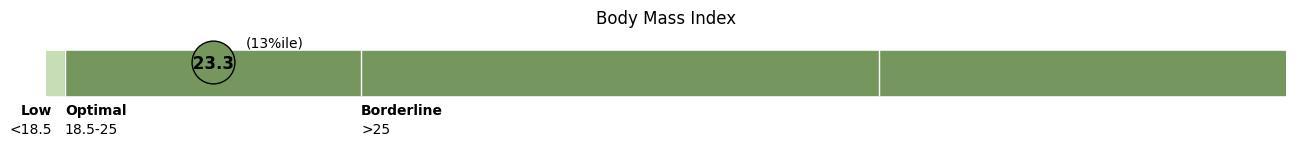
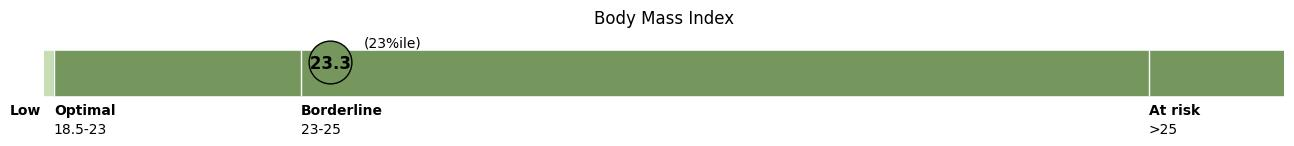
Fix South Asian BMI Range

diff --git a/Home.py b/Home.py
@@ -632,27 +632,59 @@ def show_analysis(df):
                 else:
                     plt.annotate(f'({user_percentile:.0f}%ile)', xy=(user_percentile, 0.9), xytext=(user_percentile + 5, 0.98), 
                              horizontalalignment='center')
-
-                if high_number < 1000:
-                    plt.annotate(f'{AHA_RANGES[columnName][4]}', xy=(high_percentile, 0.675), xytext=(high_percentile, 0.45),
-                                  horizontalalignment='left', weight='bold')
-                    plt.annotate(f'>{high_number}', xy=(high_percentile, 0.675), xytext=(high_percentile, 0.3),
-                                  horizontalalignment='left')
-                if low_number > 0:
+                    
+                if columnName == 'Body Mass Index':
                     plt.annotate(f'{AHA_RANGES[columnName][0]}', xy=(low_percentile, 0.675), xytext=(low_percentile - 1, 0.45),
-                                  horizontalalignment='right', weight='bold')
-                    plt.annotate(f'<{low_number}', xy=(low_percentile - 1, 0.657), xytext=(low_percentile - 1, 0.3),
-                                  horizontalalignment='right')
-                if high_number == 1000:
-                    plt.annotate(f'{AHA_RANGES[columnName][2]}', xy=(low_percentile, 0.675), xytext=(low_percentile, 0.45),
-                                    horizontalalignment='left', weight='bold')
-                    plt.annotate(f'>{low_number}', xy=(low_percentile, 0.675), xytext=(low_percentile, 0.3),
-                                    horizontalalignment='left')
+                                horizontalalignment='right', weight='bold')
+                    plt.annotate(f'<18.5', xy=(low_percentile - 1, 0.657), xytext=(low_percentile - 1, 0.3),
+                            horizontalalignment='right')
+                    if ethnicity == 'South Asian':
+                        plt.annotate(f'{AHA_RANGES[columnName][2]}', xy=(low_percentile, 0.675), xytext=(low_percentile, 0.45),
+                                horizontalalignment='left', weight='bold')
+                        plt.annotate(f'18.5-23', xy=(low_percentile, 0.657), xytext=(low_percentile, 0.3),
+                                horizontalalignment='left')
+                        plt.annotate(f'{AHA_RANGES[columnName][4]}', xy=(low_percentile, 0.675), xytext=(high_percentile, 0.45),
+                                horizontalalignment='left', weight='bold')
+                        plt.annotate(f'23-25', xy=(high_percentile - 1, 0.657), xytext=(high_percentile, 0.3),
+                                horizontalalignment='left')
+                        plt.annotate(f'{AHA_RANGES[columnName][6]}', xy=(low_percentile, 0.675), xytext=(extra_high_percentile, 0.45),
+                                horizontalalignment='left', weight='bold')
+                        plt.annotate('>25', xy=(extra_high_percentile - 1, 0.657), xytext=(extra_high_percentile, 0.3),
+                                horizontalalignment='left')
+                    else:
+                        plt.annotate(f'{AHA_RANGES[columnName][2]}', xy=(low_percentile, 0.675), xytext=(low_percentile, 0.45),
+                                horizontalalignment='left', weight='bold')
+                        plt.annotate(f'18.5-25', xy=(low_percentile, 0.657), xytext=(low_percentile, 0.3),
+                                horizontalalignment='left')
+                        plt.annotate(f'{AHA_RANGES[columnName][4]}', xy=(low_percentile, 0.675), xytext=(high_percentile, 0.45),
+                                horizontalalignment='left', weight='bold')
+                        plt.annotate(f'25-30', xy=(high_percentile - 1, 0.657), xytext=(high_percentile, 0.3),
+                                horizontalalignment='left')
+                        plt.annotate(f'{AHA_RANGES[columnName][6]}', xy=(low_percentile, 0.675), xytext=(extra_high_percentile, 0.45),
+                                horizontalalignment='left', weight='bold')
+                        plt.annotate('>30', xy=(extra_high_percentile - 1, 0.657), xytext=(extra_high_percentile, 0.3),
+                                horizontalalignment='left')
                 else:
-                    plt.annotate(f'{AHA_RANGES[columnName][2]}', xy=(low_percentile, 0.675), xytext=(low_percentile, 0.45),
+                    if high_number < 1000:
+                        plt.annotate(f'{AHA_RANGES[columnName][4]}', xy=(high_percentile, 0.675), xytext=(high_percentile, 0.45),
                                     horizontalalignment='left', weight='bold')
-                    plt.annotate(f'{low_number}-{high_number}', xy=(low_percentile, 0.675), xytext=(low_percentile, 0.3),
+                        plt.annotate(f'>{high_number}', xy=(high_percentile, 0.675), xytext=(high_percentile, 0.3),
                                     horizontalalignment='left')
+                    if low_number > 0:
+                        plt.annotate(f'{AHA_RANGES[columnName][0]}', xy=(low_percentile, 0.675), xytext=(low_percentile - 1, 0.45),
+                                    horizontalalignment='right', weight='bold')
+                        plt.annotate(f'<{low_number}', xy=(low_percentile - 1, 0.657), xytext=(low_percentile - 1, 0.3),
+                                    horizontalalignment='right')
+                    if high_number == 1000:
+                        plt.annotate(f'{AHA_RANGES[columnName][2]}', xy=(low_percentile, 0.675), xytext=(low_percentile, 0.45),
+                                        horizontalalignment='left', weight='bold')
+                        plt.annotate(f'>{low_number}', xy=(low_percentile, 0.675), xytext=(low_percentile, 0.3),
+                                        horizontalalignment='left')
+                    else:
+                        plt.annotate(f'{AHA_RANGES[columnName][2]}', xy=(low_percentile, 0.675), xytext=(low_percentile, 0.45),
+                                        horizontalalignment='left', weight='bold')
+                        plt.annotate(f'{low_number}-{high_number}', xy=(low_percentile, 0.675), xytext=(low_percentile, 0.3),
+                                        horizontalalignment='left')
 
                 for spine in ax.spines.values():
                     spine.set_visible(False)
